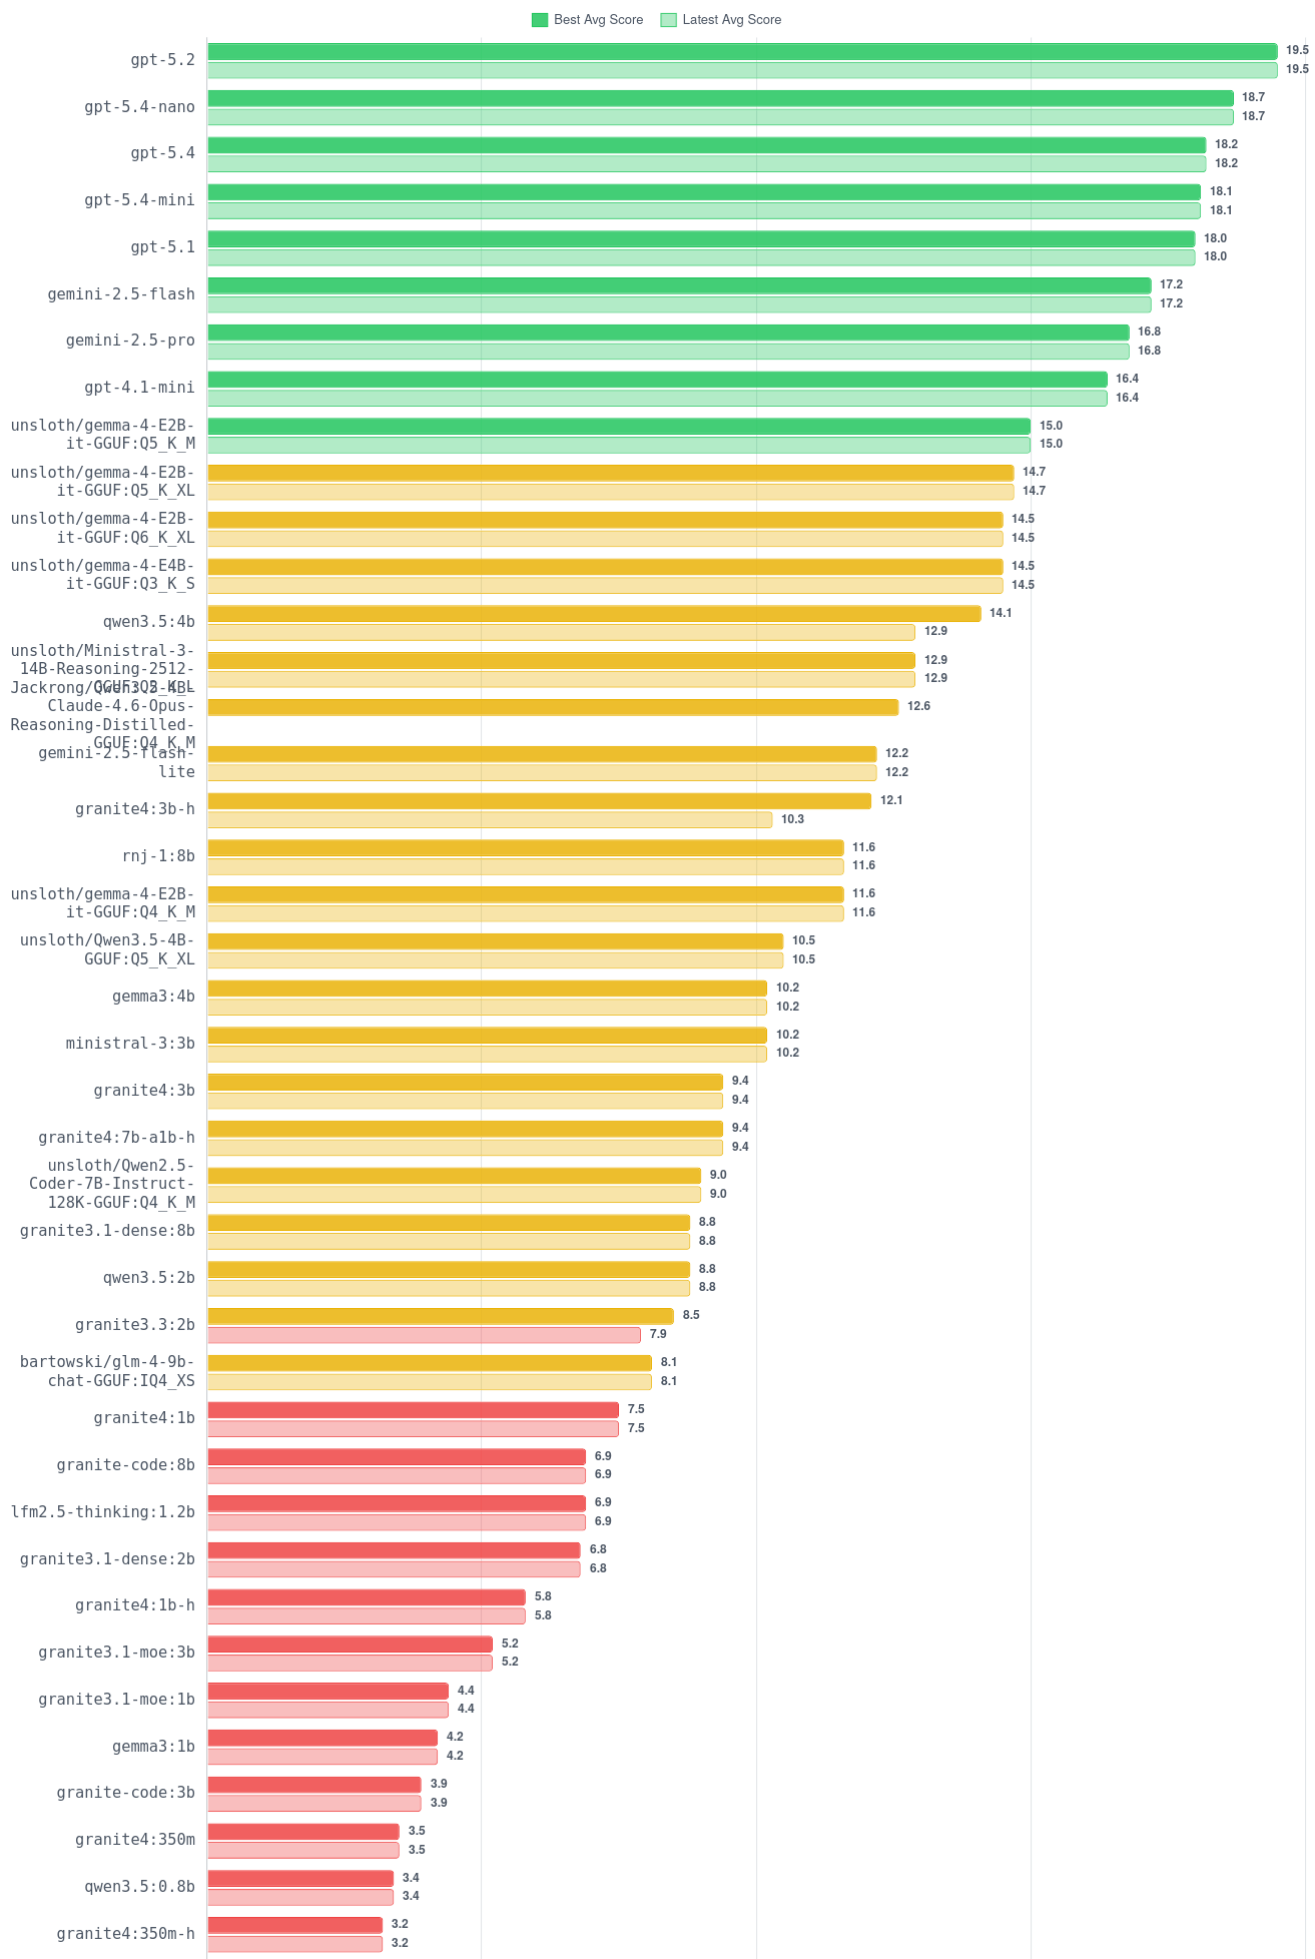
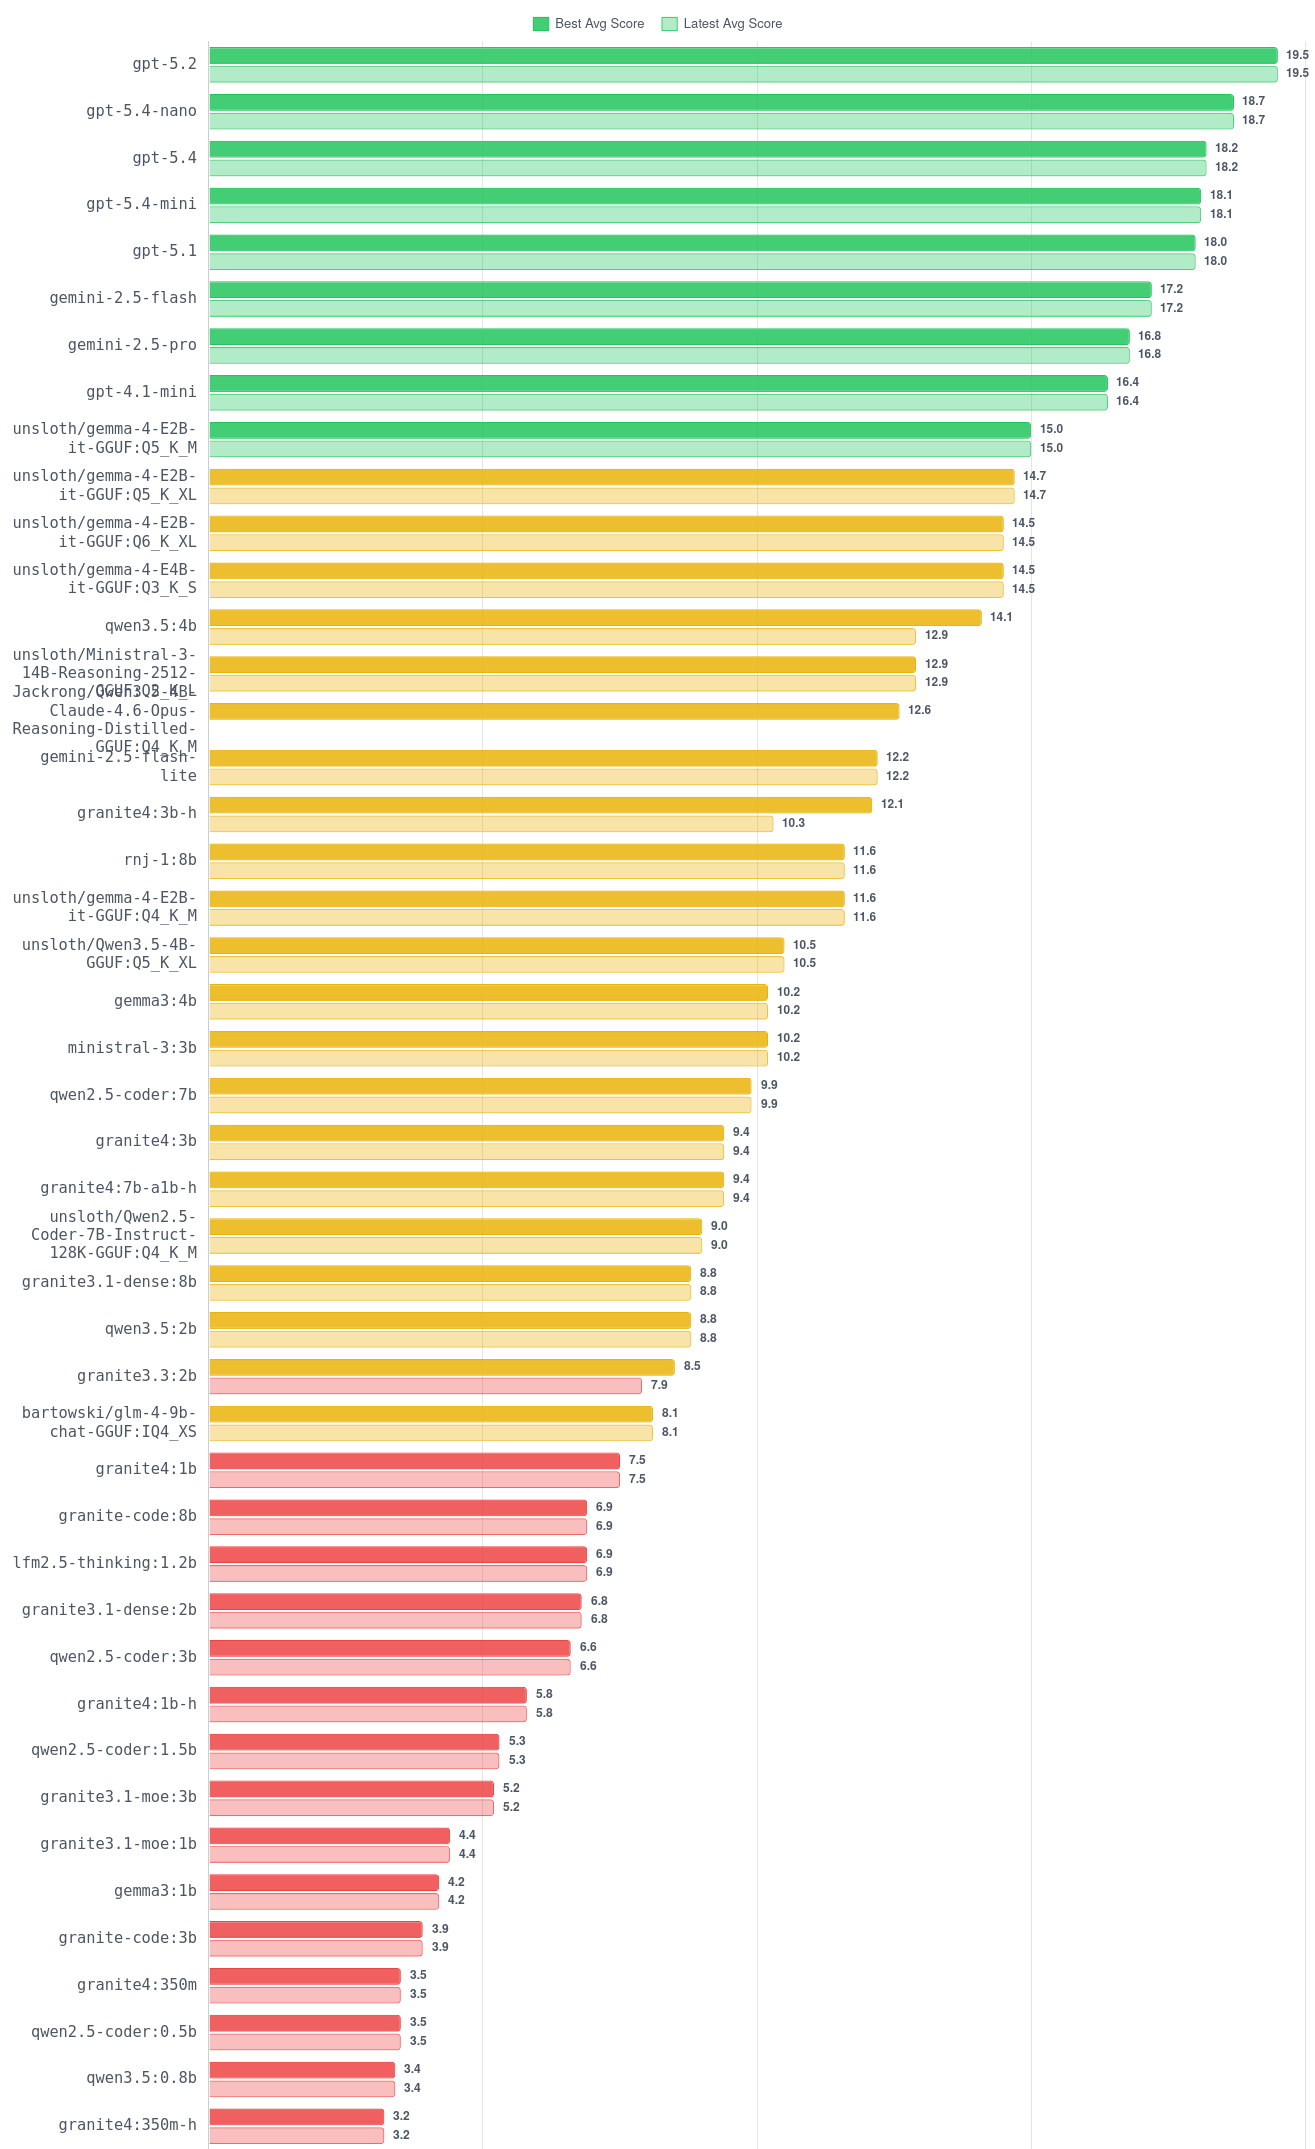
docs: updated with new models run

diff --git a/README.md b/README.md
@@ -36,7 +36,7 @@ Supports **Ollama**, **llama.cpp** (local models), **OpenAI**, and **Google Gemi
 Horizontal bar chart comparing each model's bug-detection accuracy on a 1–20 rubric scale. Each model shows its **best** (highest across all runs) and **latest** (most recent run) average scores, color-coded by performance tier: green (≥15), yellow (≥8), and red (<8).
 
 <p align="center">
-    <img src="./docs/imgs/leaderboard_latest.png" alt="LLMs leaderboard" height="1900px">
+    <img src="./docs/imgs/leaderboard_latest.png" alt="LLMs leaderboard" height="2000px">
 </p>
 
 ### Models tested
@@ -71,6 +71,15 @@ Horizontal bar chart comparing each model's bug-detection accuracy on a 1–20 r
 |                       | unsloth/Qwen2.5-Coder-7B-Instruct-128K-GGUF:Q4_K_M                  |
 |                       | Jackrong/Qwen3.5-4B-Claude-4.6-Opus-Reasoning-Distilled-GGUF:Q4_K_M |
 |                       | bartowski/glm-4-9b-chat-GGUF:IQ4_XS                                 |
+|                       | unsloth/gemma-4-E2B-it-GGUF:Q5_K_M                                  |
+|                       | unsloth/gemma-4-E2B-it-GGUF:Q5_K_XL                                 |
+|                       | unsloth/gemma-4-E2B-it-GGUF:Q6_K_XL                                 |
+|                       | unsloth/gemma-4-E4B-it-GGUF:Q3_K_S                                  |
+|                       | unsloth/gemma-4-E2B-it-GGUF:Q4_K_M                                  |
+|                       | qwen2.5-coder:7b                                                    |
+|                       | qwen2.5-coder:3b                                                    |
+|                       | qwen2.5-coder:1.5b                                                  |
+|                       | qwen2.5-coder:0.5b                                                  |
 
 ## Quick Start
 
